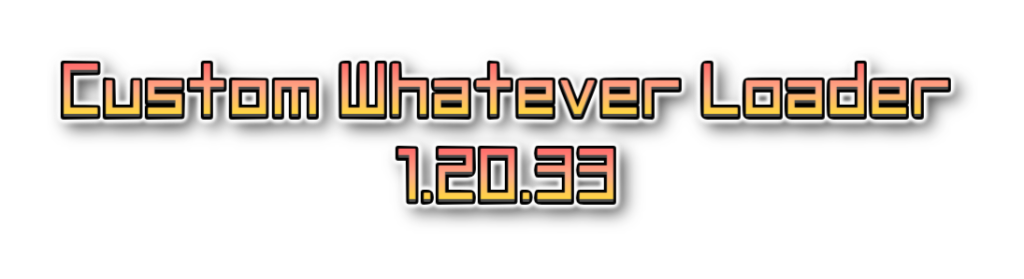
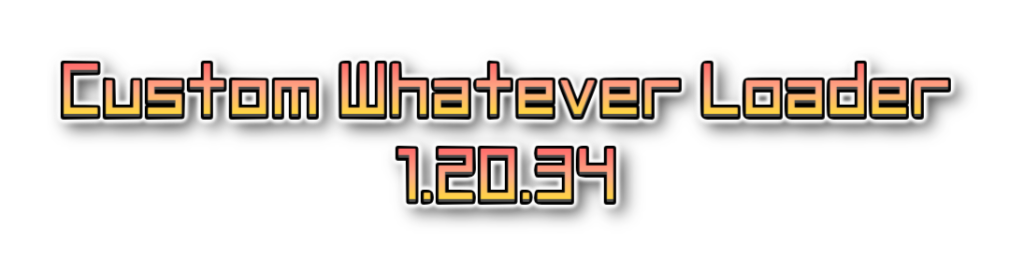
fix(CWL): missing DNA reverse check for ID purge

Changed region(s): [[0.5625, 0.6595, 0.625, 0.8029], [0.5625, 0.5161, 0.5938, 0.6022]]

diff --git a/CustomWhateverLoader/Patches/Elements/SafeCreateElementPatch.cs b/CustomWhateverLoader/Patches/Elements/SafeCreateElementPatch.cs
@@ -7,6 +7,7 @@ using Cwl.Helper.Extensions;
 using Cwl.LangMod;
 using HarmonyLib;
 using MethodTimer;
+using UnityEngine;
 
 namespace Cwl.Patches.Elements;
 
@@ -89,12 +90,13 @@ internal class SafeCreateElementPatch
     [CwlCharaOnCreateEvent]
     internal static void InvalidateElements(Chara chara)
     {
+        var elements = EClass.sources.elements;
         var doReplace = false;
         List<string> safeActs = [];
 
         foreach (var act in chara.source.actCombat) {
             var actId = act.Split("/")[0];
-            if (EClass.sources.elements.alias.ContainsKey(actId)) {
+            if (elements.alias.ContainsKey(actId)) {
                 safeActs.Add(act);
             } else {
                 doReplace = true;
@@ -107,20 +109,17 @@ internal class SafeCreateElementPatch
         }
 
         var list = chara._listAbility;
-        var map = EClass.sources.elements.map;
-
         if (list is null) {
             return;
         }
 
         for (var i = list.Count - 1; i >= 0; --i) {
-            if (map.ContainsKey(list[i])) {
+            var id = Mathf.Abs(list[i]);
+            if (elements.map.ContainsKey(id)) {
                 continue;
             }
 
-            var id = list[i];
             list.RemoveAt(i);
-
             CwlMod.WarnWithPopup<CustomElement>("cwl_warn_fix_listAbility".Loc(id, chara.id));
         }
 

diff --git a/CustomWhateverLoader/Loader/CustomWhateverLoader.cs b/CustomWhateverLoader/Loader/CustomWhateverLoader.cs
@@ -9,7 +9,7 @@ public static class ModInfo
     // for legacy reason
     public const string Guid = "dk.elinplugins.customdialogloader";
     public const string Name = "Custom Whatever Loader";
-    public const string Version = "1.20.33";
+    public const string Version = "1.20.34";
 }
 
 [BepInPlugin(ModInfo.Guid, ModInfo.Name, ModInfo.Version)]
